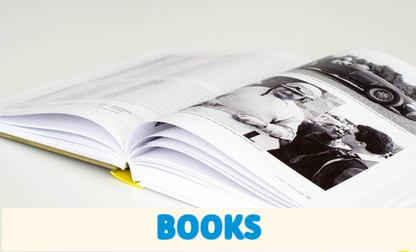
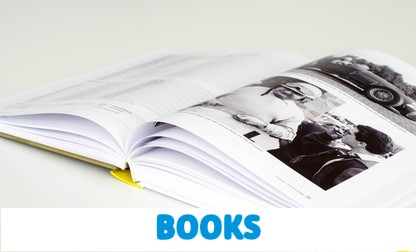
added images, corrected dropdown redirection

diff --git a/index.html b/index.html
@@ -239,7 +239,7 @@
                                         </div>
 
                                          <div class="item">
-                                            <a data-toggle="modal" data-target="#myModal" onclick="document.getElementById('services').value='book';"><img src="assets/images/services-small/book.jpg" alt="" /></a>
+                                            <a data-toggle="modal" data-target="#myModal" onclick="document.getElementById('services').value='book';"><img src="assets/images/services-small/books.jpg" alt="" /></a>
                                         </div>
 
                                          <div class="item">
